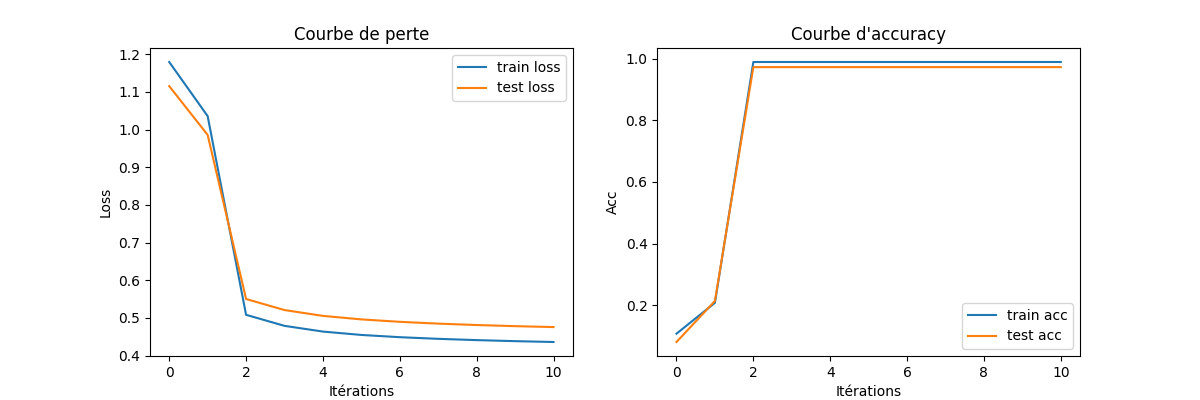
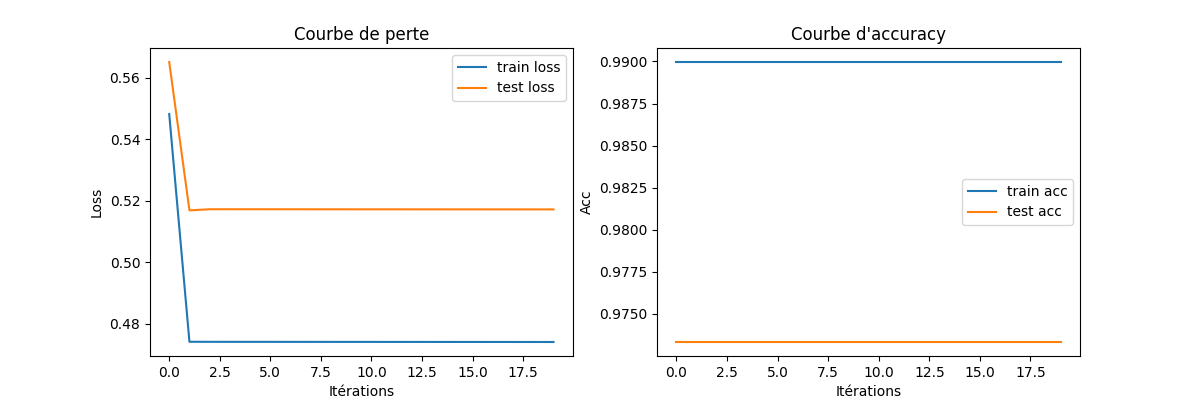
Résaux réparer

diff --git a/Training/first_proto.py b/Training/first_proto.py
@@ -85,6 +85,10 @@ class Resaux:
         self.W = None
         self.b = None
         self.nb_neurone_couche = nb_neurone_couche 
+        self.L = []
+        self.L_t = []  
+        self.acc = []
+        self.acc_t = []
 
         if X is not None and y is not None:
             self.W = [np.random.randn(nb_neurone_couche[0], X.shape[1])]
@@ -101,53 +105,90 @@ class Resaux:
             Z.append(self.W[i].dot(A[i-1]) + self.b[i])
             A.append(1 / (1+np.exp(-Z[i])))
         return A
-
+    
     def back_propagation(self, A, X, y):
+        m = X.shape[0]
+        y = y.reshape(1, -1)  # y doit être (1, m)
 
-        m = y.shape[1]
-        print("A[-1].shape", A[-1].shape)
-        print("y.shape", y.T.shape)
-        print("A[-2].shape", A[-2].shape)
+        dZ = A[-1] - y  # (1, m)
+        dW = []
+        db = []
 
-        dZn = A[-1] - y.T
-        #print("dZn.shape", dZn.shape)
-        dWn = np.dot(dZn, A[-2].T) / m 
-        dbn = np.sum(dZn, axis=1, keepdims=True) / m
-        dZ = [dZn]
-        dW = [dWn] 
-        db = [dbn]
+        for i in reversed(range(len(self.W))):
+            A_prev = A[i - 1] if i > 0 else X.T  # (n_l-1, m)
 
-        for i in reversed(range(1, len(self.W))):
-            dZ.append(np.dot(self.W[i].T, dZ[-1]) * A[i] * (1 - A[i]))
-            if i-1 >= 0:
-                dW.append(np.dot(dZ[-1], A[i-1].T) / m)
-            else:
-                dW.append(np.dot(dZ[-1], X.T) / m)
-            db.append(np.sum(dZ[-1], axis=1, keepdims=True) / m)
-        dW = dW.reverse
-        db = db.reverse
+            dW_i = np.dot(dZ, A_prev.T) / m
+            db_i = np.sum(dZ, axis=1, keepdims=True) / m
+
+            dW.insert(0, dW_i)
+            db.insert(0, db_i)
+
+            if i > 0:
+                dA_prev = np.dot(self.W[i].T, dZ)
+                dZ = dA_prev * A[i - 1] * (1 - A[i - 1])  # sigmoid prime
+
         return dW, db
 
+    def log_loss(self, A, y):
+        epsilon = 1e-15
+        A = np.clip(A[-1], epsilon, 1 - epsilon)
+        return -np.mean(y * np.log(A) + (1 - y) * np.log(1 - A))
+
     def update(self, dW, db, learning_rate):
-        for i in range(len(self.W)):
+        '''for i in range(len(self.W)):
             print(f"dW[{i}].shape", dW[i].shape)
             print(f"self.W[{i}].shape", self.W[i].shape)
             print(f"db[{i}].shape", db[i].shape)
             print(f"self.b[{i}].shape", self.b[i].shape)
+        '''
         for i in range(len(self.W)):
             self.W[i] -= learning_rate * dW[i]
             self.b[i] -= learning_rate * db[i]
     
     def predict(self, X):
         A = self.forward_propagation(X)
-        return A[-1] >= 0.5
+        return (A[-1] >= 0.5).astype(int).flatten()
 
-    def train(self, X, y, X_test, y_test, learning_rate=1e-2, nb_iter=10000):
+    def train(self, X, y, X_test, y_test, learning_rate=1e-2, nb_iter=10000, partialsteps=100):
+        """ Entraîne le modèle sur les données d'entraînement """
         for i in tqdm(range(nb_iter)):
             A = self.forward_propagation(X)
+
+            if i % partialsteps == 0:
+                self.L.append(self.log_loss(A, y))
+                self.L_t.append(self.log_loss(self.forward_propagation(X_test), y_test))
+                self.acc.append(accuracy_score(y >= 0.5, self.predict(X)))
+                self.acc_t.append(accuracy_score(y_test >= 0.5, self.predict(X_test)))
+            
             dW, db = self.back_propagation(A, X, y)
             self.update(dW, db, learning_rate)  
 
+    def save(self, filename):
+        """ Sauvegarde du modèle dans un fichier """
+        with open(filename, 'wb') as f:
+            pickle.dump({
+                'W': self.W,
+                'b': self.b,
+                'L': self.L,
+                'L_t': self.L_t,
+                'acc': self.acc,
+                'acc_t': self.acc_t,
+                'nb_neurone_couche': self.nb_neurone_couche
+            }, f)
+        print(f"Modèle sauvegardé dans {filename}")
+
+    def load(self, filename):
+        """ Charge un modèle depuis un fichier """
+        with open(filename, 'rb') as f:
+            data = pickle.load(f)
+            self.W = data['W']
+            self.b = data['b']
+            self.L = data['L']
+            self.L_t = data['L_t']
+            self.acc = data['acc']
+            self.acc_t = data['acc_t']
+            self.nb_neurone_couche = data['nb_neurone_couche']
+        print(f"Modèle chargé depuis {filename}")
 
 def main_for_sleep_dat(bool_c, bool_t, path_n, path_c):
 
@@ -198,11 +239,14 @@ def main_for_sleep_dat(bool_c, bool_t, path_n, path_c):
          
     def train_model(X_train, y_train, X_test, y_test):
 
+        y_train = y_train.flatten()
+        y_test = y_test.flatten()
+
         if bool_c:
-            sleep = Neurone(X_train, y_train, X_test, y_test)
-            #sleep.save(path_n)
+            sleep = Resaux(X_train, y_train, X_test, y_test, [1,3,3,1], 1e-1, 1000)
+            sleep.save(path_n)
         else:
-            sleep = Neurone()
+            sleep = Resaux()
             sleep.load(path_n)
 
         initial_pred_train = sleep.predict(X_train)
@@ -238,8 +282,8 @@ def main_for_sleep_dat(bool_c, bool_t, path_n, path_c):
         print("\nFirst 5 rows of y_train:\n", pd.DataFrame(y_train).head())
 
     def affichage_perf(X_train, y_train, X_test, y_test, sleep):
-        y_pred_train = sleep.predict(X_train)
-        y_pred_test = sleep.predict(X_test)
+        y_pred_train = sleep.predict(X_train).flatten()
+        y_pred_test = sleep.predict(X_test).flatten()
 
 
         print("Train Accuracy:", accuracy_score(y_train >= 0.5, y_pred_train))
@@ -296,6 +340,7 @@ def main_for_sleep_dat(bool_c, bool_t, path_n, path_c):
     affichage_perf(X_train, y_train, X_test, y_test, sleep)
 
     #courbe_perf(sleep)
+    courbe_perf(sleep)
 
 
 if __name__ == "__main__":
